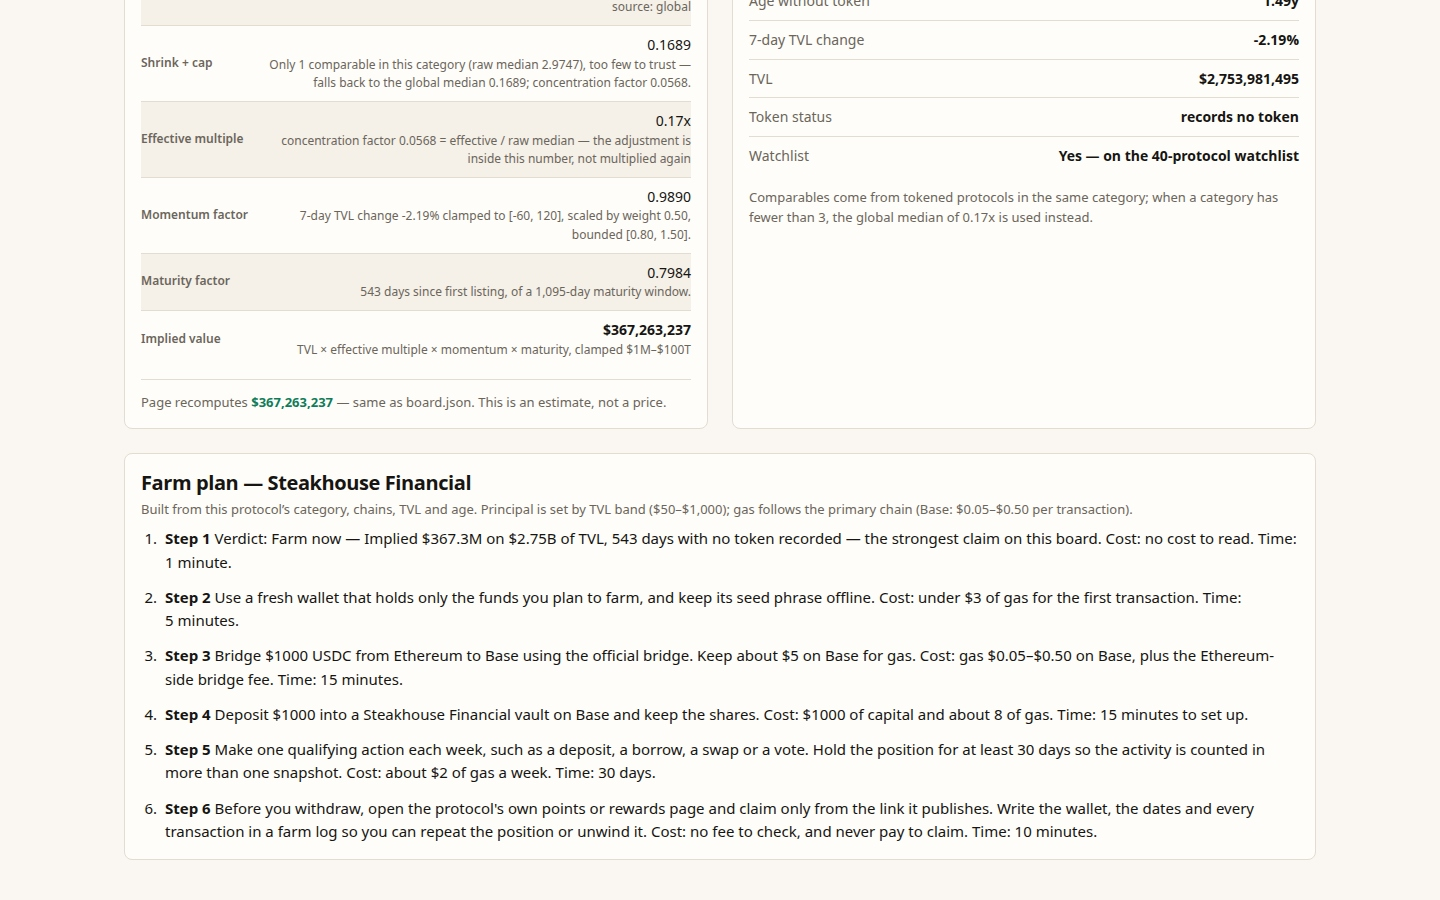
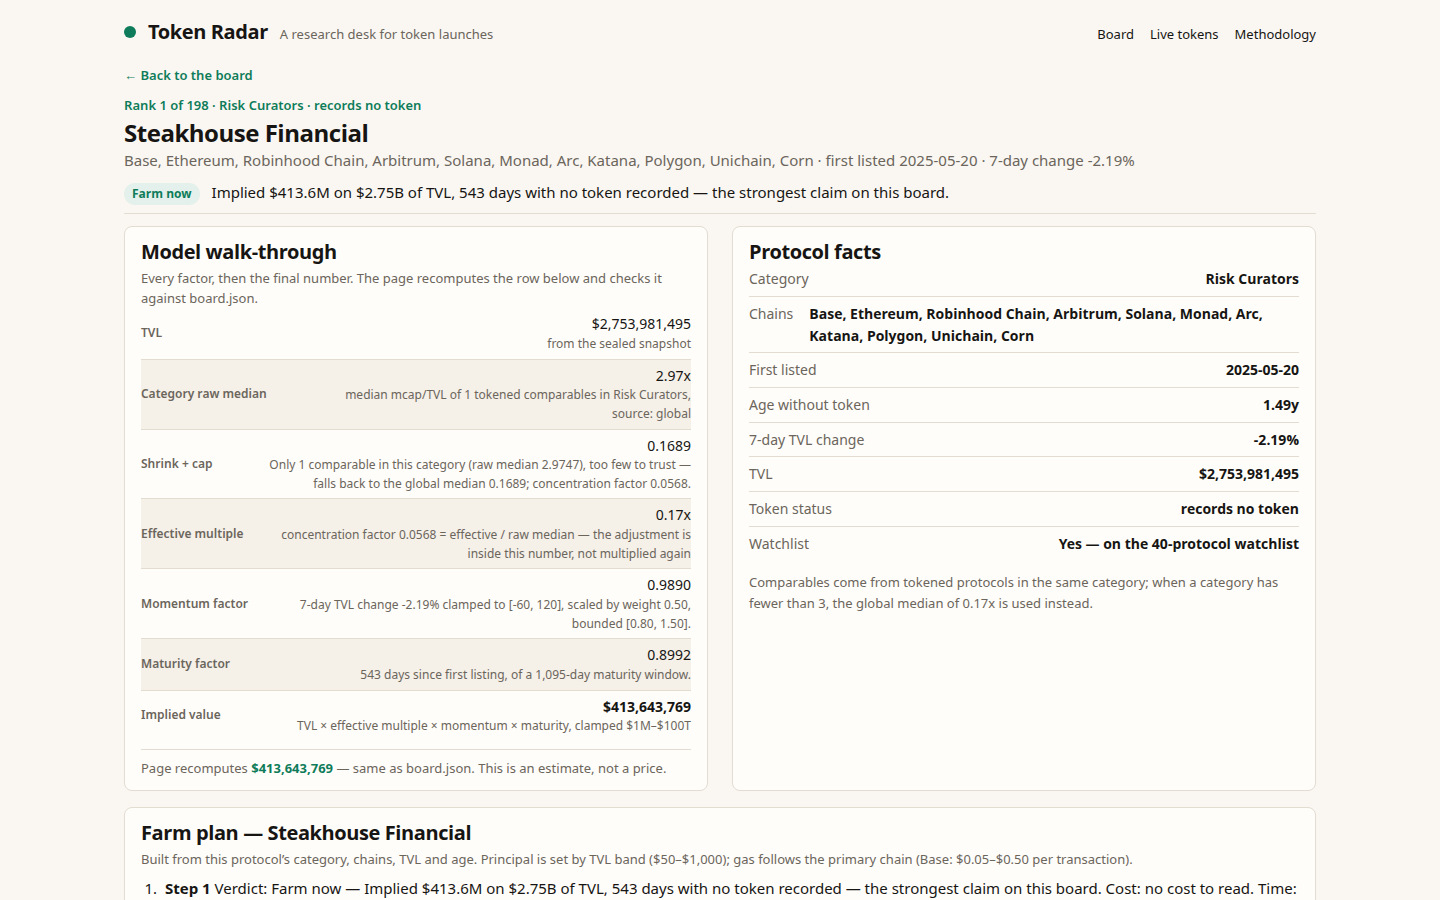
token-radar-01 v2: maturity 0.8/0.2 (V15), 198 rows, floor 16

Changed region(s): [[0.0625, 0.0, 0.9062, 0.9956], [0.75, 0.0, 0.9062, 0.0933], [0.5312, 0.0, 0.5938, 0.0622]]

diff --git a/dashboard/app.js b/dashboard/app.js
@@ -19,8 +19,8 @@
   var LO = M.momentum_lo !== undefined ? M.momentum_lo : 0.8;
   var HI = M.momentum_hi !== undefined ? M.momentum_hi : 1.5;
   var W = M.momentum_weight !== undefined ? M.momentum_weight : 0.5;
-  var MFLOOR = M.maturity_floor !== undefined ? M.maturity_floor : 0.6;
-  var MRANGE = M.maturity_range !== undefined ? M.maturity_range : 0.4;
+  var MFLOOR = M.maturity_floor !== undefined ? M.maturity_floor : 0.8;
+  var MRANGE = M.maturity_range !== undefined ? M.maturity_range : 0.2;
   var MDAYS = M.maturity_days !== undefined ? M.maturity_days : 1095;
   var MEDAGE = M.median_age_days !== undefined ? M.median_age_days : (DATA && DATA.median_age_days !== undefined ? DATA.median_age_days : 513);
   var GMED = (DATA && DATA.global_median !== undefined) ? DATA.global_median : 0.1689;
@@ -333,7 +333,7 @@
       return '<li><b>Step ' + (i + 1) + '</b> ' + esc(s) + '</li>';
     }).join('');
     var momWhy = row.change_7d === null ? '7-day change not recorded, so momentum is neutral 1.00.' : '7-day TVL change ' + fmtPct(row.change_7d) + ' clamped to [-60, 120], scaled by weight ' + num2.format(W) + ', bounded [' + num2.format(LO) + ', ' + num2.format(HI) + '].';
-    var matWhy = row.age_days === null ? 'Listed date not recorded, so the median age of ' + num0.format(MEDAGE) + ' days is used (factor 0.787).' : num0.format(row.age_days) + ' days since first listing, of a ' + num0.format(MDAYS) + '-day maturity window.';
+    var matWhy = row.age_days === null ? 'Listed date not recorded, so the median age of ' + num0.format(MEDAGE) + ' days is used (factor ' + num4.format(maturityFactor(null)) + ').' : num0.format(row.age_days) + ' days since first listing, of a ' + num0.format(MDAYS) + '-day maturity window.';
     var shrinkWhy;
     if (comp.count < 3 || comp.rawMedian === null || comp.rawMedian === undefined) {
       if (comp.rawMedian === null || comp.rawMedian === undefined) shrinkWhy = 'Fewer than 3 comparables in this category, so the global median ' + num4.format(GMED) + ' is used directly; concentration factor 1.00.';
@@ -368,7 +368,7 @@
       '<div><span>Token status</span><b>records no token</b></div>' +
       '<div><span>Watchlist</span><b>' + (row.watchlist ? 'Yes — on the 40-protocol watchlist' : 'No — an early candidate below the floor') + '</b></div>' +
       '</div><p style="margin-top:12px">Comparables come from tokened protocols in the same category; when a category has fewer than 3, the global median of ' + fmtMult(DATA.global_median) + ' is used instead.</p></section></div>' +
-      '<section class="card" style="margin-top:24px"><h2>Farm plan — ' + esc(row.name) + '</h2><p>Built from this protocol’s category, chains, TVL and age. Principal is set by TVL band ($50–$1,000); gas follows the primary chain (' + esc((row.chains && row.chains.length) ? row.chains[0] : 'main chain') + ': ' + esc(gasFor((row.chains && row.chains.length) ? row.chains[0] : '')) + ' per transaction).</p><ol class="steps">' + stepsHtml + '</ol></section>';
+      '<section class="card" style="margin-top:16px"><h2>Farm plan — ' + esc(row.name) + '</h2><p>Built from this protocol’s category, chains, TVL and age. Principal is set by TVL band ($50–$1,000); gas follows the primary chain (' + esc((row.chains && row.chains.length) ? row.chains[0] : 'main chain') + ': ' + esc(gasFor((row.chains && row.chains.length) ? row.chains[0] : '')) + ' per transaction).</p><ol class="steps">' + stepsHtml + '</ol></section>';
   }
 
   function renderMethodology() {
@@ -382,7 +382,7 @@
       '<table class="walk"><thead><tr><th>Category</th><th style="text-align:right">Median multiple</th><th style="text-align:right">Comparables</th></tr></thead><tbody>' + compRows + '</tbody></table></section>' +
       '<section><h2>Factor bounds</h2><ul>' +
       '<li><b>Momentum:</b> clamp(1 + clamp(change_7d, −60, 120) / 100 × ' + num2.format(W) + ', ' + num2.format(LO) + ', ' + num2.format(HI) + '). Null 7-day change is neutral 1.0.</li>' +
-      '<li><b>Maturity:</b> ' + num2.format(MFLOOR) + ' + min(age_days, ' + num0.format(MDAYS) + ') / ' + num0.format(MDAYS) + ' × ' + num2.format(MRANGE) + '. Age is days since first listing; a missing listed date uses the median age of ' + num0.format(MEDAGE) + ' days (factor 0.787).</li>' +
+      '<li><b>Maturity:</b> ' + num2.format(MFLOOR) + ' + min(age_days, ' + num0.format(MDAYS) + ') / ' + num0.format(MDAYS) + ' × ' + num2.format(MRANGE) + '. Age is days since first listing; a missing listed date uses the median age of ' + num0.format(MEDAGE) + ' days (factor ' + num4.format(maturityFactor(null)) + ').</li>' +
       '<li><b>Concentration:</b> no fourth multiplier. The category median is shrunk toward the global median 0.1689 with w = n/(n+5), then capped to [0.02, 1.00]; concentration_factor = effective / raw median.</li>' +
       '<li><b>Verdict:</b> Farm now needs implied value ≥ $50M, 7-day change ≥ −15% (or null) and age ≥ 90 days (or null); Watch needs implied value ≥ $10M and 7-day change ≥ −30% (or null); otherwise Skip. The decisive reason is on each row and detail page.</li>' +
       '<li><b>Farm principal:</b> set by TVL band — $1,000 at $1B+, $500 at $100M+, $250 at $50M+, $100 at $10M+, $50 below that. Gas follows the primary chain: Ethereum L1 $2–$15, L2s $0.05–$0.50, Solana ~$0.01, BSC / Avalanche / Fantom / Cronos $0.10–$1, other chains ~$1.</li>' +

diff --git a/dashboard/app.css b/dashboard/app.css
@@ -34,7 +34,7 @@ button{cursor:pointer}
 .nav a{color:var(--ink);text-decoration:none;border-bottom:1px solid transparent;padding-bottom:2px}
 .nav a:hover{border-bottom-color:var(--accent);color:var(--accent)}
 #app,.foot{max-width:1240px;margin:0 auto;padding:0 var(--s3)}
-#app{padding-top:var(--s3)}
+#app{padding-top:var(--s2)}
 .foot{border-top:1px solid var(--border);margin-top:var(--s5);padding-top:var(--s2);padding-bottom:var(--s4);font-size:13px;color:var(--muted);display:grid;gap:var(--s1);max-width:1240px}
 .foot strong{color:var(--ink)}
 .lede{display:grid;grid-template-columns:minmax(0,1.5fr) minmax(260px,.5fr);gap:var(--s4);padding-bottom:var(--s3);border-bottom:1px solid var(--border)}
@@ -84,31 +84,31 @@ tbody tr[data-slug]{cursor:pointer}
 .empty p{color:var(--muted)}
 .btn{min-height:36px;padding:0 16px;border:1px solid var(--border-strong);border-radius:6px;background:var(--surface);font-weight:600}
 .btn.primary{background:var(--accent);border-color:var(--accent);color:#fff}
-.back{display:inline-block;margin-bottom:var(--s2);font-size:13px;font-weight:600;text-decoration:none}
-.detail-head{border-bottom:1px solid var(--border);padding-bottom:var(--s2);margin-bottom:var(--s3)}
+.back{display:inline-block;margin-bottom:var(--s1);font-size:13px;font-weight:600;text-decoration:none}
+.detail-head{border-bottom:1px solid var(--border);padding-bottom:var(--s1);margin-bottom:12px}
 .detail-head .kicker{font-size:13px;color:var(--accent);font-weight:600}
-.detail-head h1{margin:4px 0}
+.detail-head h1{margin:2px 0;font-size:24px;line-height:1.2}
 .detail-head p{color:var(--muted)}
-.verdict-line{margin-top:12px;display:flex;gap:12px;align-items:baseline;flex-wrap:wrap;font-size:15px}
+.verdict-line{margin-top:8px;display:flex;gap:12px;align-items:baseline;flex-wrap:wrap;font-size:15px}
 .grid2{display:grid;grid-template-columns:1fr 1fr;gap:var(--s3)}
-.card{background:var(--surface);border:1px solid var(--border);border-radius:8px;padding:var(--s2)}
+.card{background:var(--surface);border:1px solid var(--border);border-radius:8px;padding:12px var(--s2)}
 .card h2{margin-bottom:4px}
 .card h3{margin-bottom:8px}
 .card p{color:var(--muted);font-size:13px}
 .walk{width:100%;font-size:14px}
-.walk th,.walk td{padding:8px 0;border-bottom:1px solid var(--border);text-align:left}
+.walk th,.walk td{padding:5px 0;border-bottom:1px solid var(--border);text-align:left}
 .walk tr:last-child th,.walk tr:last-child td{border-bottom:0}
 .walk td{text-align:right}
 .walk .why{color:var(--muted);font-size:12px;display:block;text-align:right}
 .formula{font-size:13px;line-height:1.7;background:var(--paper);border:1px solid var(--border);border-radius:6px;padding:12px 16px;overflow-wrap:anywhere;margin:8px 0}
-.recompute{margin-top:12px;font-size:13px;border-top:1px solid var(--border);padding-top:12px}
+.recompute{margin-top:8px;font-size:13px;border-top:1px solid var(--border);padding-top:8px}
 .recompute b{color:var(--accent)}
 .recompute .bad{color:var(--neg)}
-.steps{margin:8px 0 0;padding-left:20px;display:grid;gap:12px}
+.steps{margin:8px 0 0;padding-left:20px;display:grid;gap:8px}
 .steps li{padding-left:4px}
 .steps .cost{color:var(--muted);font-size:12px;display:block;margin-top:2px}
-.kv{display:grid;gap:8px;font-size:14px}
-.kv div{display:flex;justify-content:space-between;gap:16px;border-bottom:1px solid var(--border);padding-bottom:8px}
+.kv{display:grid;gap:6px;font-size:14px}
+.kv div{display:flex;justify-content:space-between;gap:16px;border-bottom:1px solid var(--border);padding-bottom:6px}
 .kv div:last-child{border-bottom:0}
 .kv span{color:var(--muted)}
 .meth{max-width:760px}

diff --git a/lib/model.ts b/lib/model.ts
@@ -11,8 +11,8 @@
 //                                  shrunk toward the global median and capped (see below)
 //   momentumFactor(change_7d)      1 + clamp(change_7d, -60, 120) / 100 x 0.5, clamped to [0.8, 1.5];
 //                                  null change_7d -> 1.0 (neutral, stated on the page)
-//   maturityFactor(age)            0.6 + min(age, 1095) / 1095 x 0.4; age = as_of - listed_at in days;
-//                                  null listed_at -> 513 days (the pre-token median age)
+//   maturityFactor(age)            0.8 + min(age, 1095) / 1095 x 0.2; age = as_of - listed_at in days;
+//                                  null listed_at -> 513 days (the pre-token median age, factor 0.8937)
 //   concentrationFactor            the adjustment that turns a category's raw median into the
 //                                  effective multiple: shrink toward the global median with weight
 //                                  n/(n+5), then cap to [0.02, 1.00]; a category with fewer than 3
@@ -93,8 +93,8 @@ export const MODEL: ModelConstants = {
   momentum_lo: 0.8,
   momentum_hi: 1.5,
   momentum_null: 1.0,
-  maturity_floor: 0.6,
-  maturity_range: 0.4,
+  maturity_floor: 0.8,
+  maturity_range: 0.2,
   maturity_days: 1095,
   unknown_age_days: 513,
   implied_min: 1_000_000,
